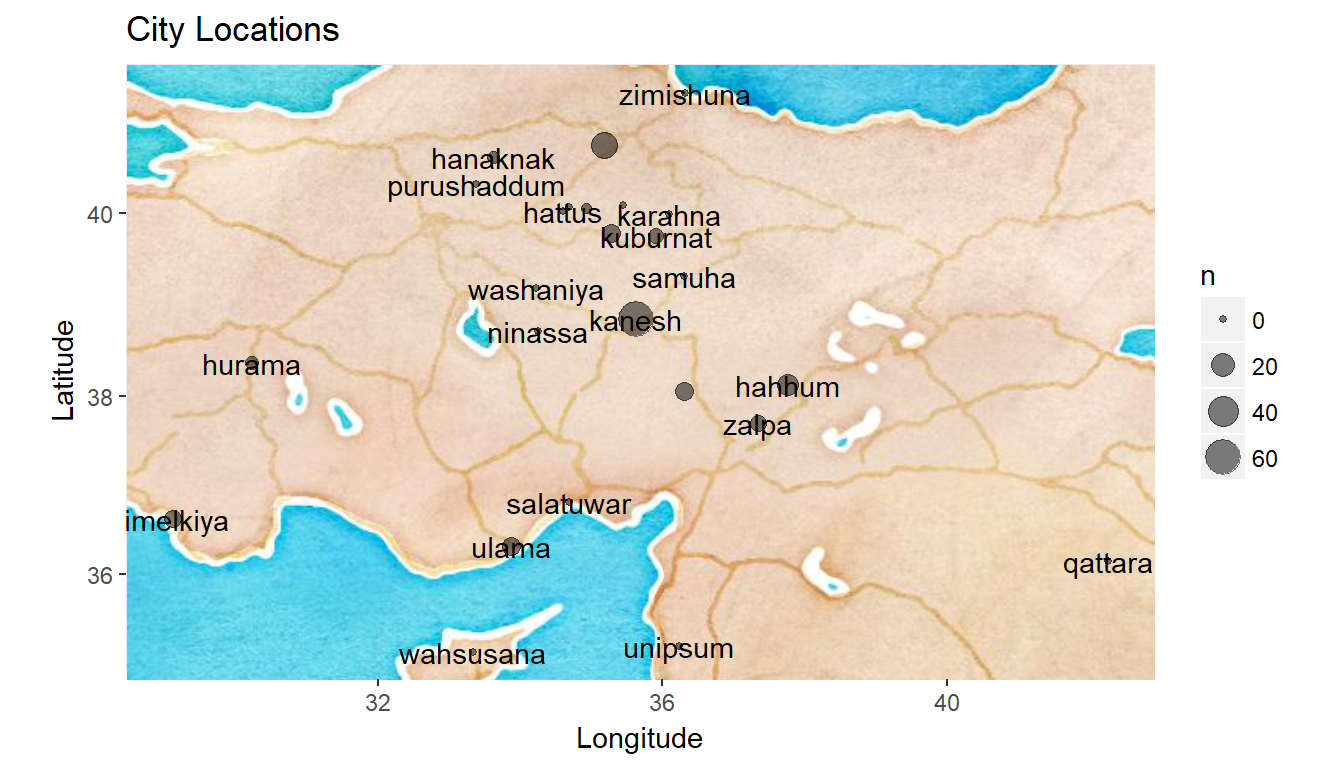
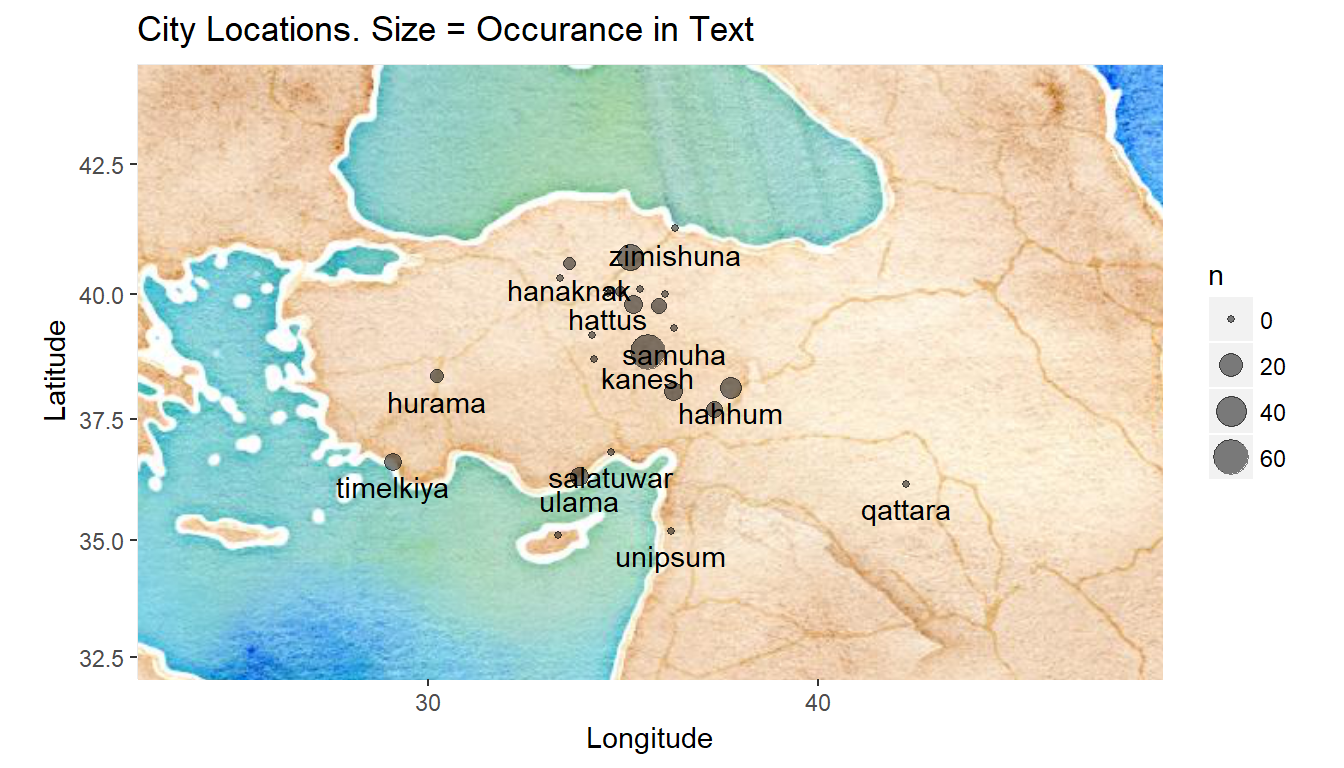
first_map_5

diff --git a/final.html b/final.html
@@ -259,9 +259,15 @@ $(document).ready(function () {
 
 </div>
 <p>But how did I get here? It started with a tweet by Gabor Bekes:</p>
-<p><img src="tweetgabor.png" alt="tweet_gabor" height="400" width="500"></p>
+<div class="figure">
+<img src="tweetgabor.png" />
+
+</div>
 <p>I contacted the authors of this academic paper from the University of Virginia. They were so kind and provided me these text files:</p>
-<p><img src="kerememail.png" alt="kerem_email" height="400" width="500"></p>
+<div class="figure">
+<img src="kerememail.png" />
+
+</div>
 <p>Archeologists have escavated these tablets during the past 200 years.</p>
 </div>
 <div id="an-escavated-tablet-looks-like-this" class="section level3">
@@ -351,8 +357,7 @@ txt %&gt;%
   filter(n &gt; 150) %&gt;%
   mutate(word = reorder(word, n)) %&gt;%
   ggplot(aes(word, n)) + geom_col() + xlab(NULL) + coord_flip() +
-  ggtitle(&quot;OARE_01&quot;) +
-  theme_fivethirtyeight()</code></pre>
+  ggtitle(&quot;Word Frequency&quot;)</code></pre>
 <p><img src="final_files/figure-html/unnamed-chunk-4-1.png" width="672" /></p>
 <p>It looks like these people were sending and receiving textiles, tin and copper. Transportation was mostly depending on donkeys and the payments were in silvers most of the time. The units of measurement (like the weight) were shekels, minas and talents. Example: Abele sends 5 minas of textile to Ibalaya for 20 shekels of silver, on behalf of Iddin-Istar.</p>
 <p><b>2018.03.08 </b></p>
@@ -460,7 +465,7 @@ library(ggthemes)
 
 lat &lt;- cities$latitude
 long &lt;- cities$longitude
-bbox &lt;- make_bbox(long,lat,f=0.05)
+bbox &lt;- make_bbox(long,lat,f=0.5)
 b &lt;- get_map(bbox,maptype=&quot;watercolor&quot;,source=&quot;google&quot;)
 
 
@@ -468,9 +473,10 @@ ggmap(b) + geom_point(data = cities,
            aes(longitude, latitude, size=n),alpha=0.5) +
   
            labs(x = &quot;Longitude&quot;, y = &quot;Latitude&quot;,
-           title=&quot;City Locations&quot;, color = &quot;Type&quot;) +
+           title=&quot;City Locations. Size = Occurance in Text&quot;, color = &quot;Type&quot;) +
   
-           geom_text(data = cities, aes(longitude, latitude, label = cityName), check_overlap = TRUE) </code></pre>
+           geom_text(data = cities, aes(longitude, latitude, label = cityName), 
+                     check_overlap = TRUE, nudge_y = -0.5) </code></pre>
 <p><img src="final_files/figure-html/unnamed-chunk-10-1.png" width="672" /></p>
 <pre class="r"><code>#</code></pre>
 <p>xxxxxxxxxxxxxxxxxxxxxxxx</p>
